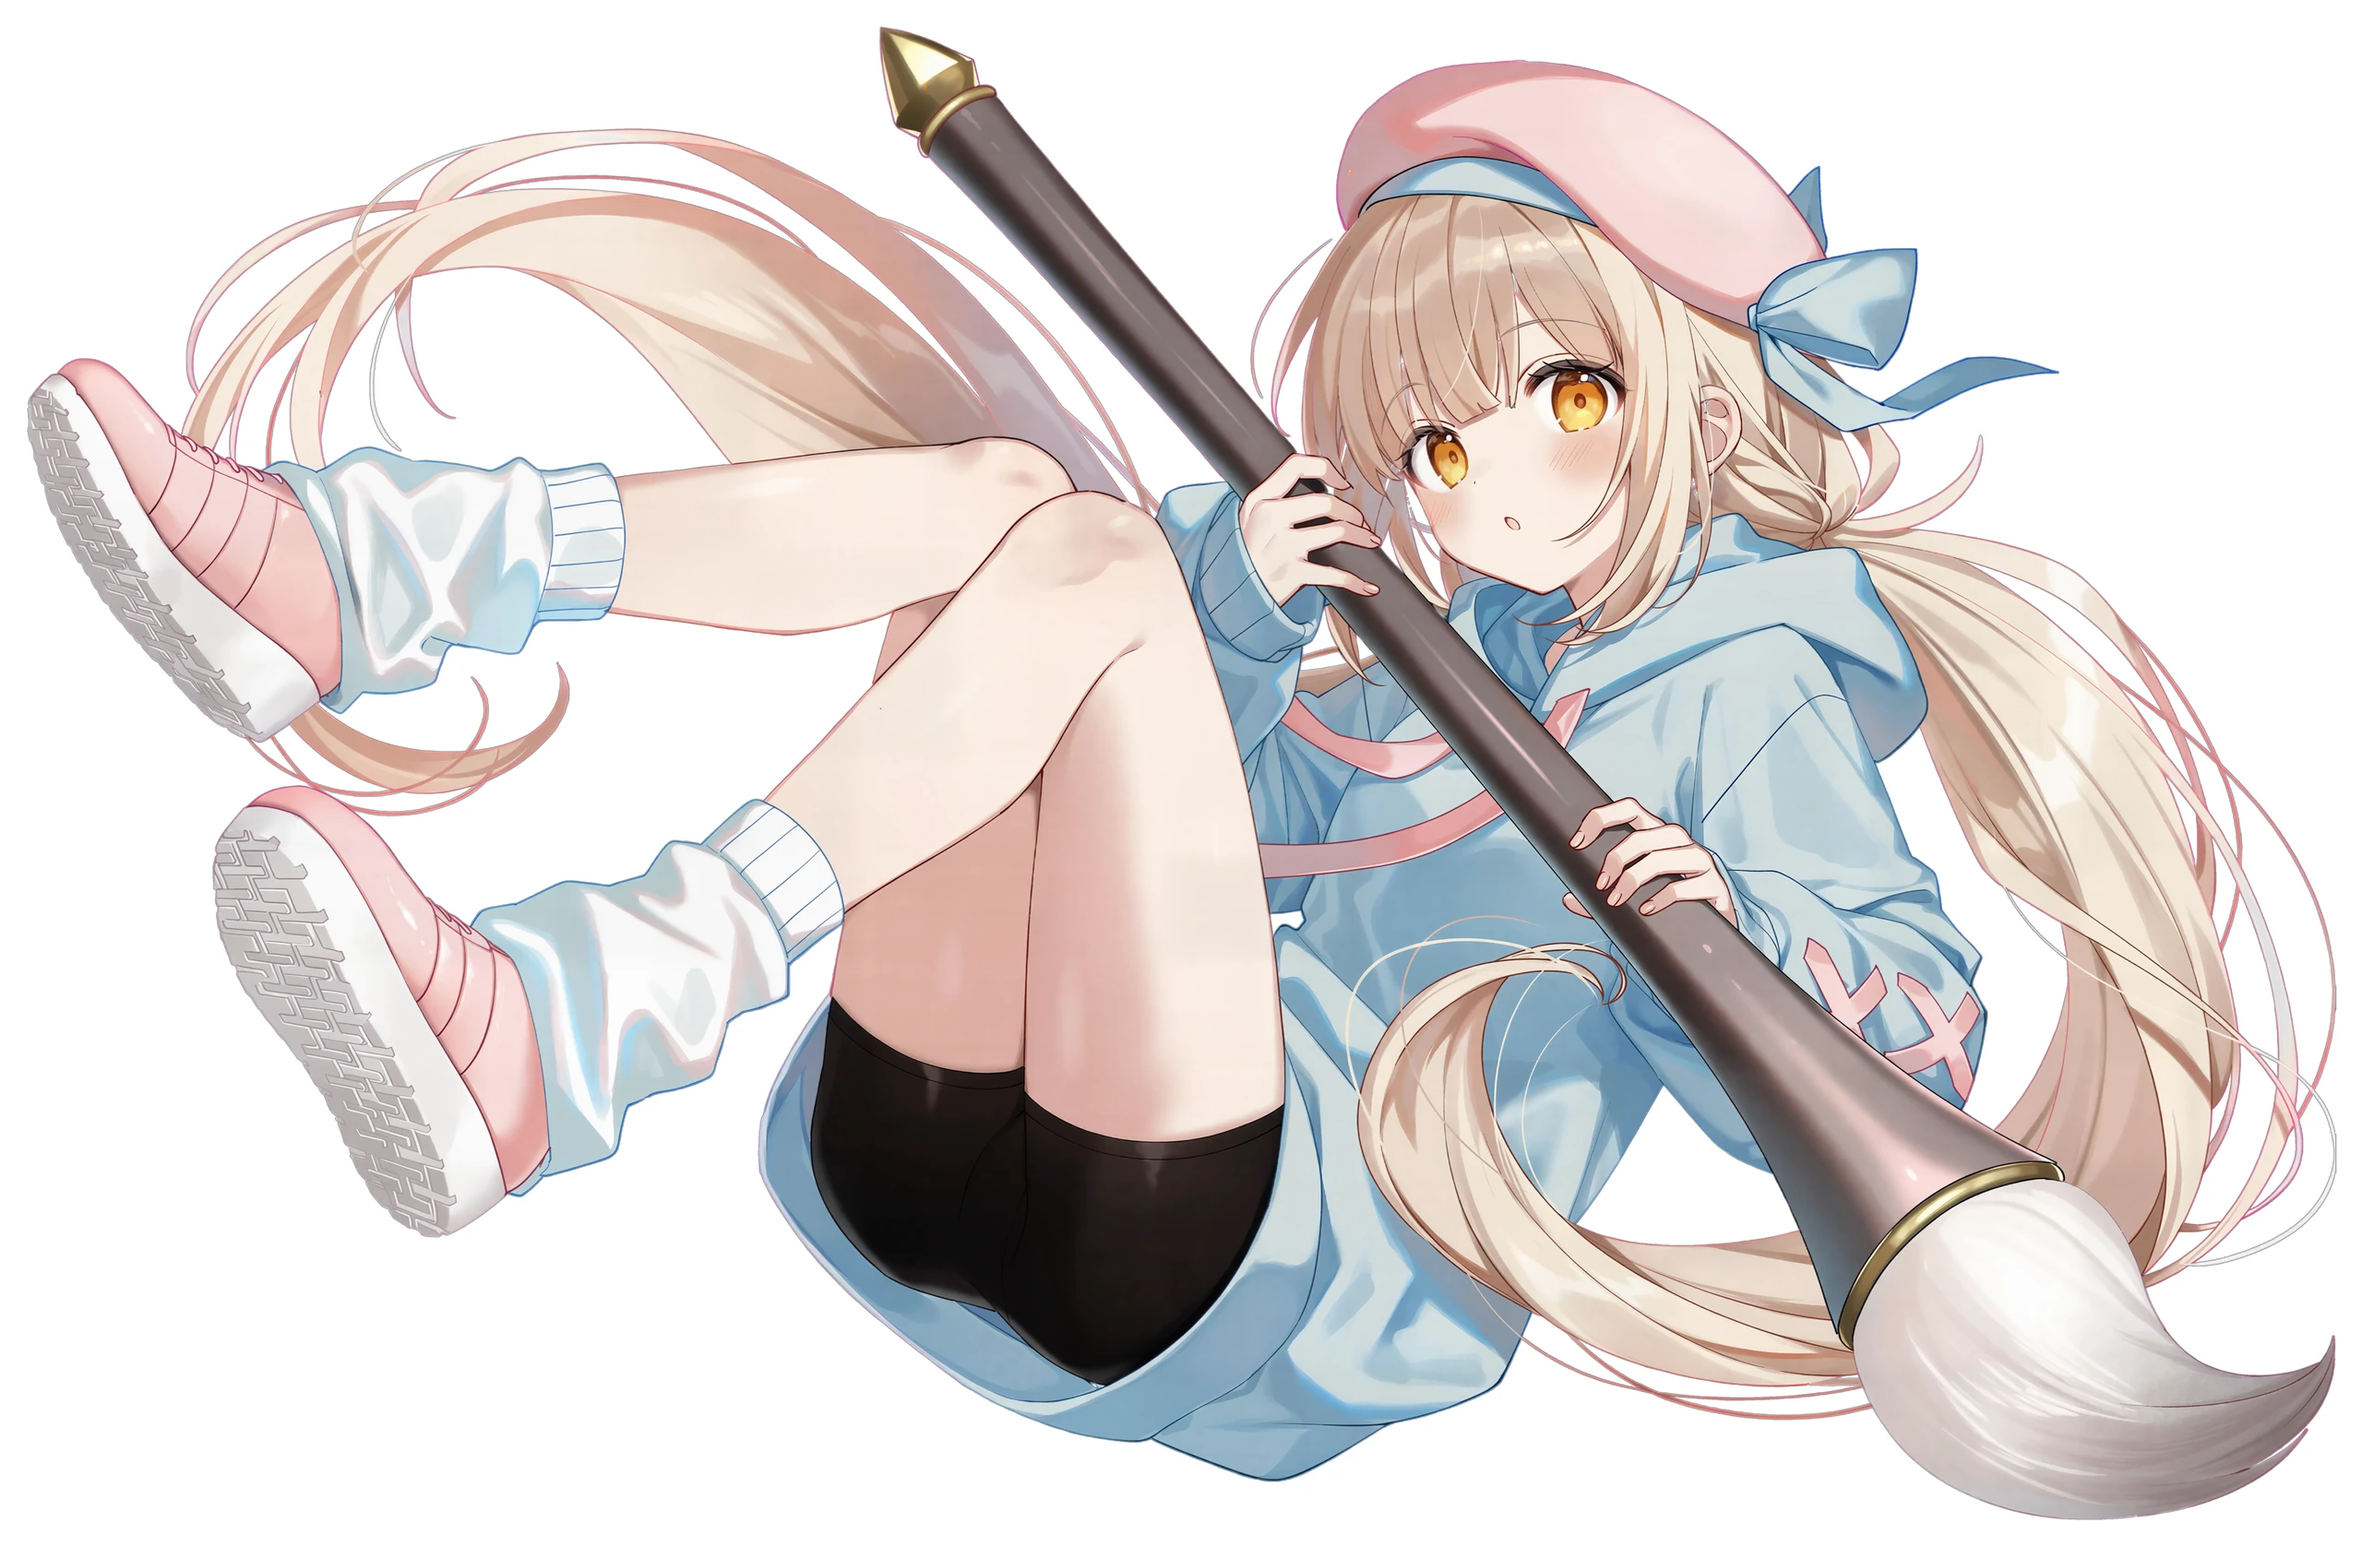
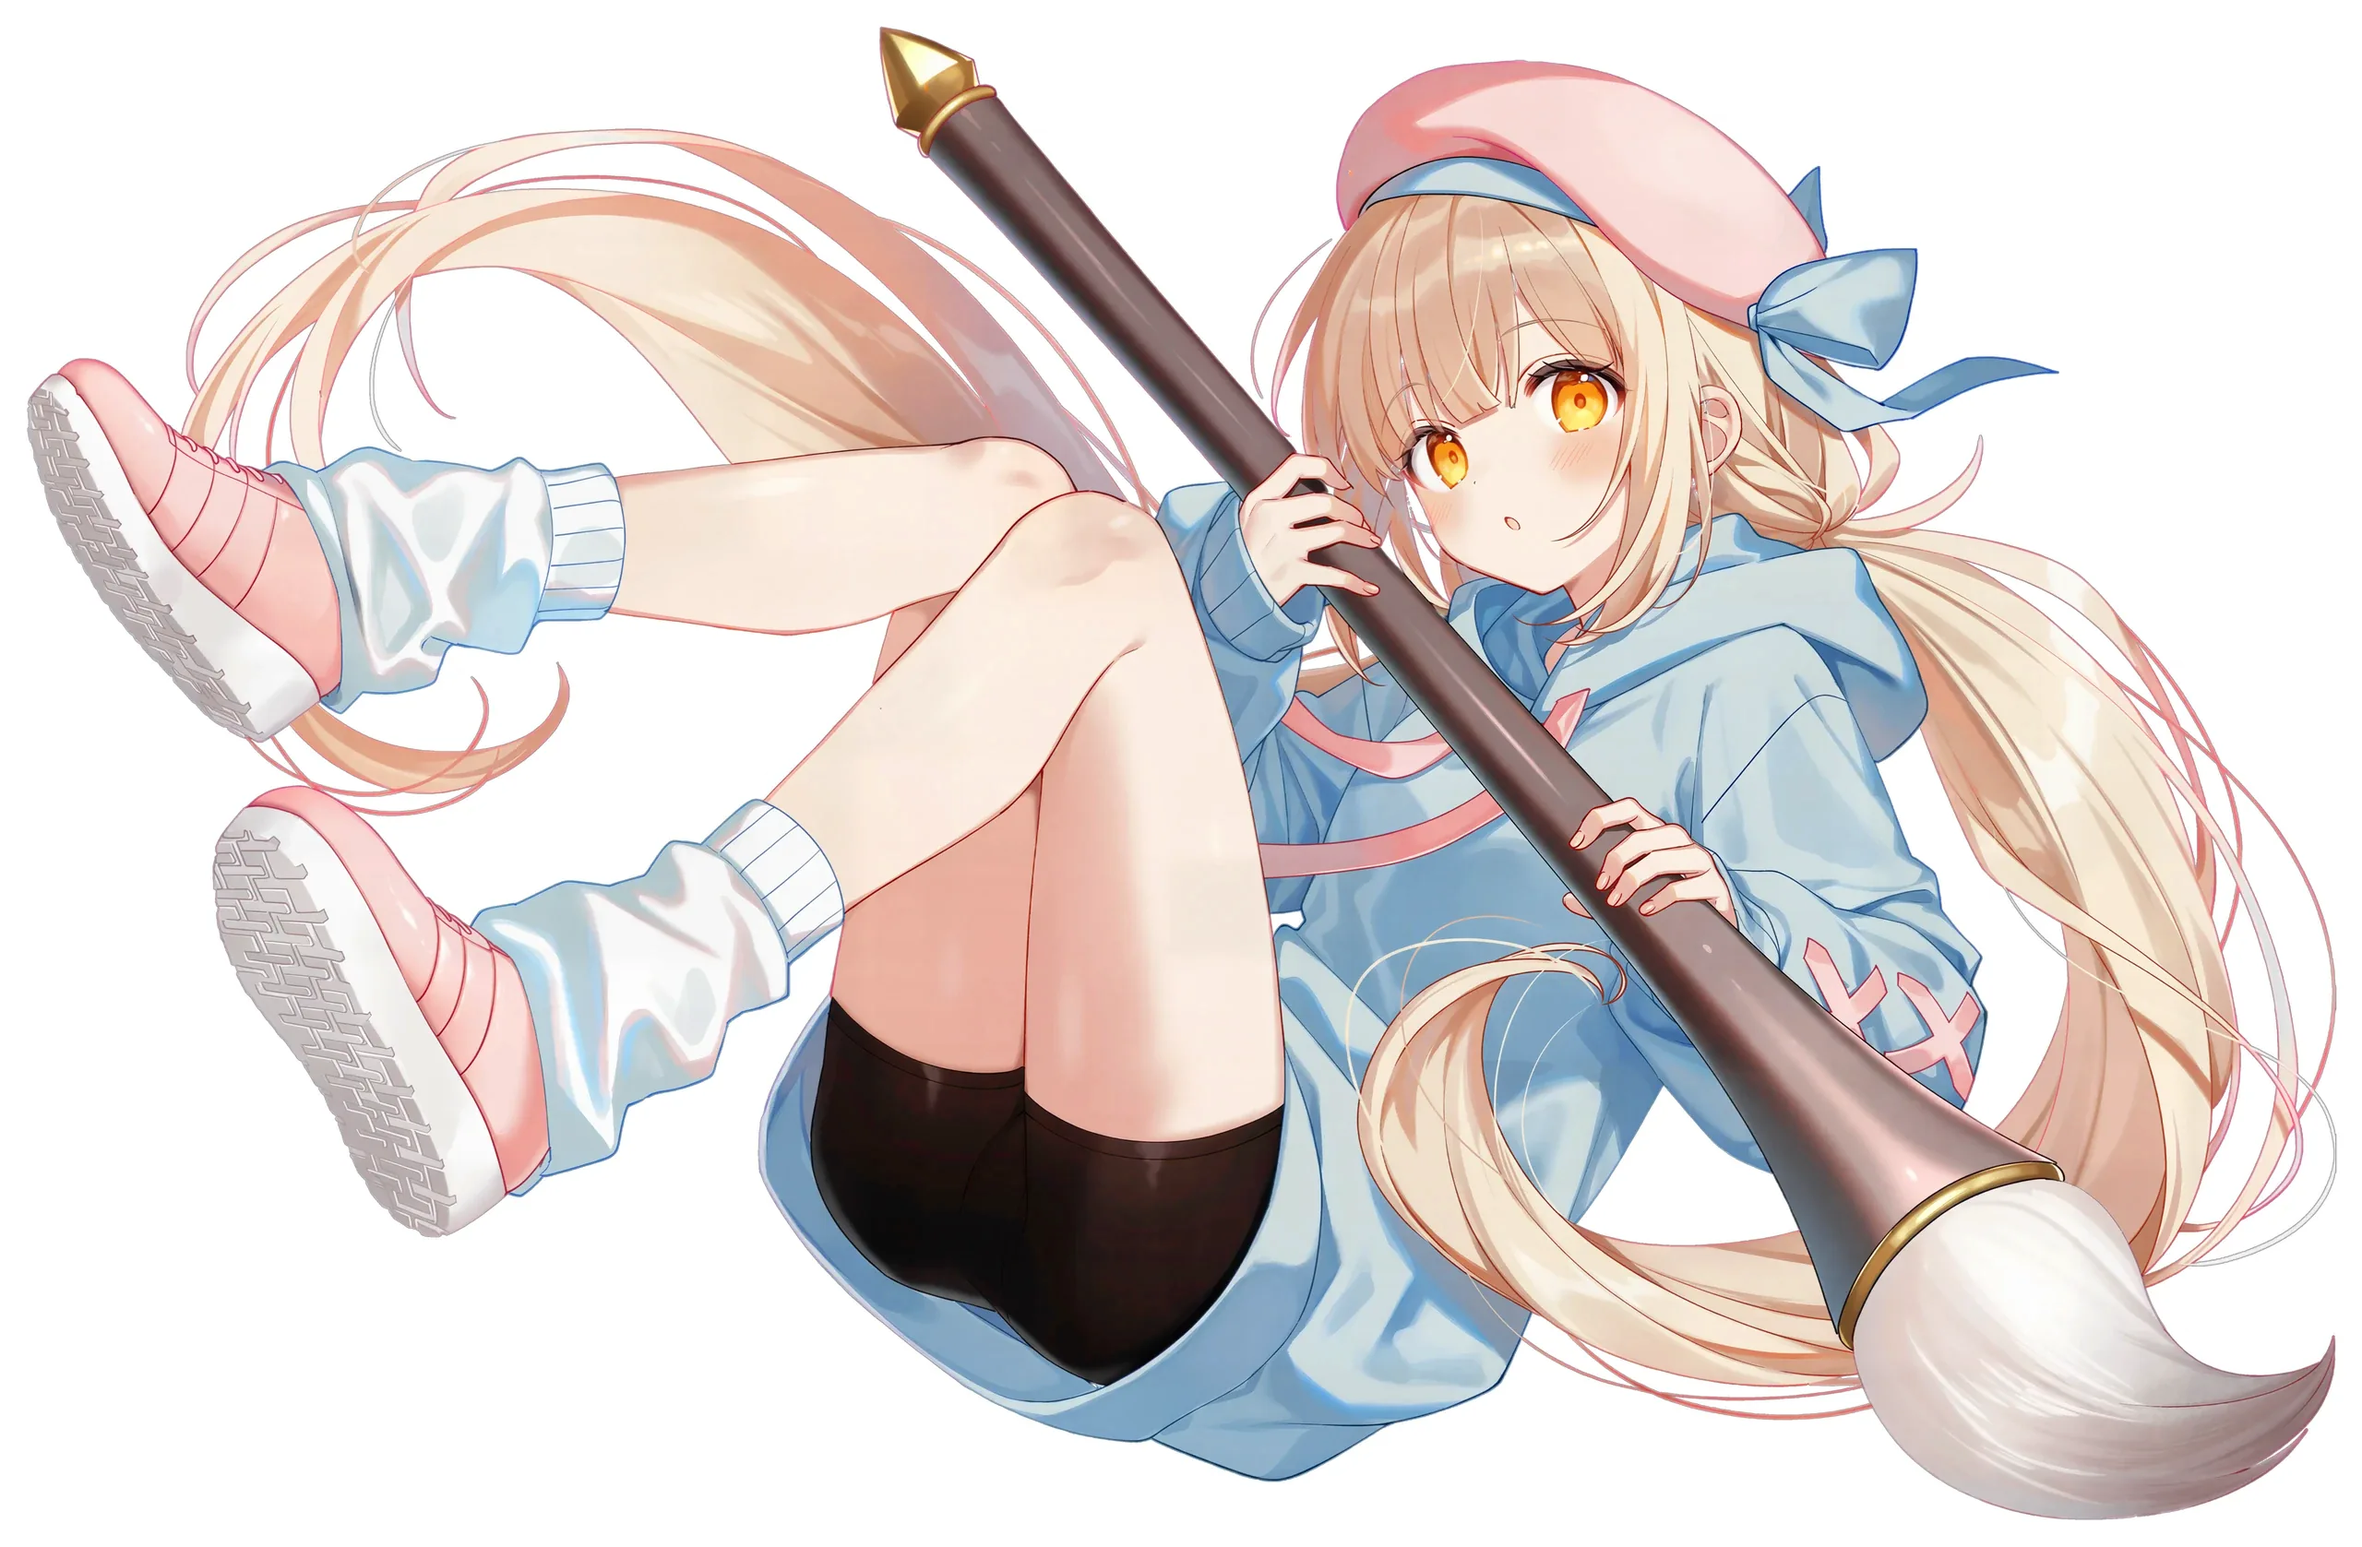
feat(mock): スマホのトップでキャラ画像を上にずらし、画像を差し替える
- スマホ幅でキャラの位置を画面下から 3rem → 6rem に上げる
- ヒーローのキャラ画像を新しいものに差し替える

diff --git a/index.html b/index.html
@@ -1438,7 +1438,7 @@
           --base: translateY(0);
           top: auto;
           right: -16vw;
-          bottom: 3rem;
+          bottom: 6rem;
           width: 104vw;
           animation: none;
           opacity: 0.7;
